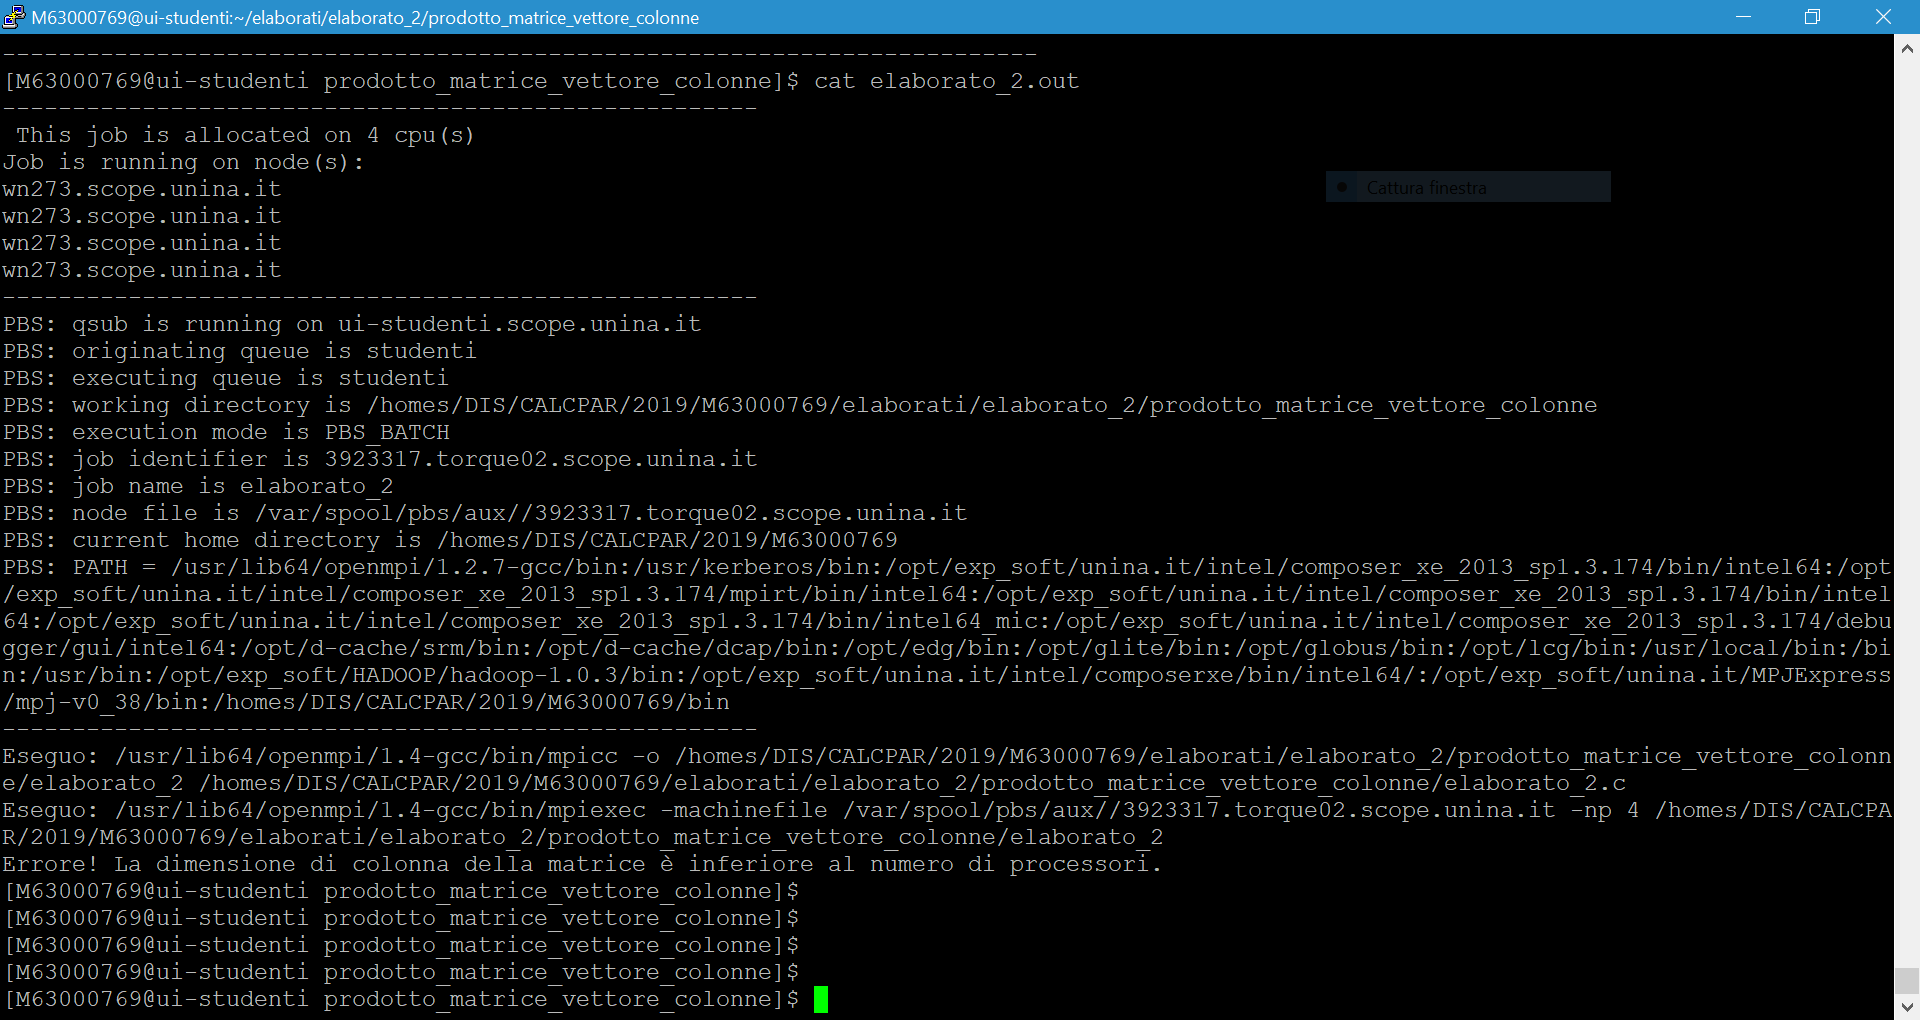
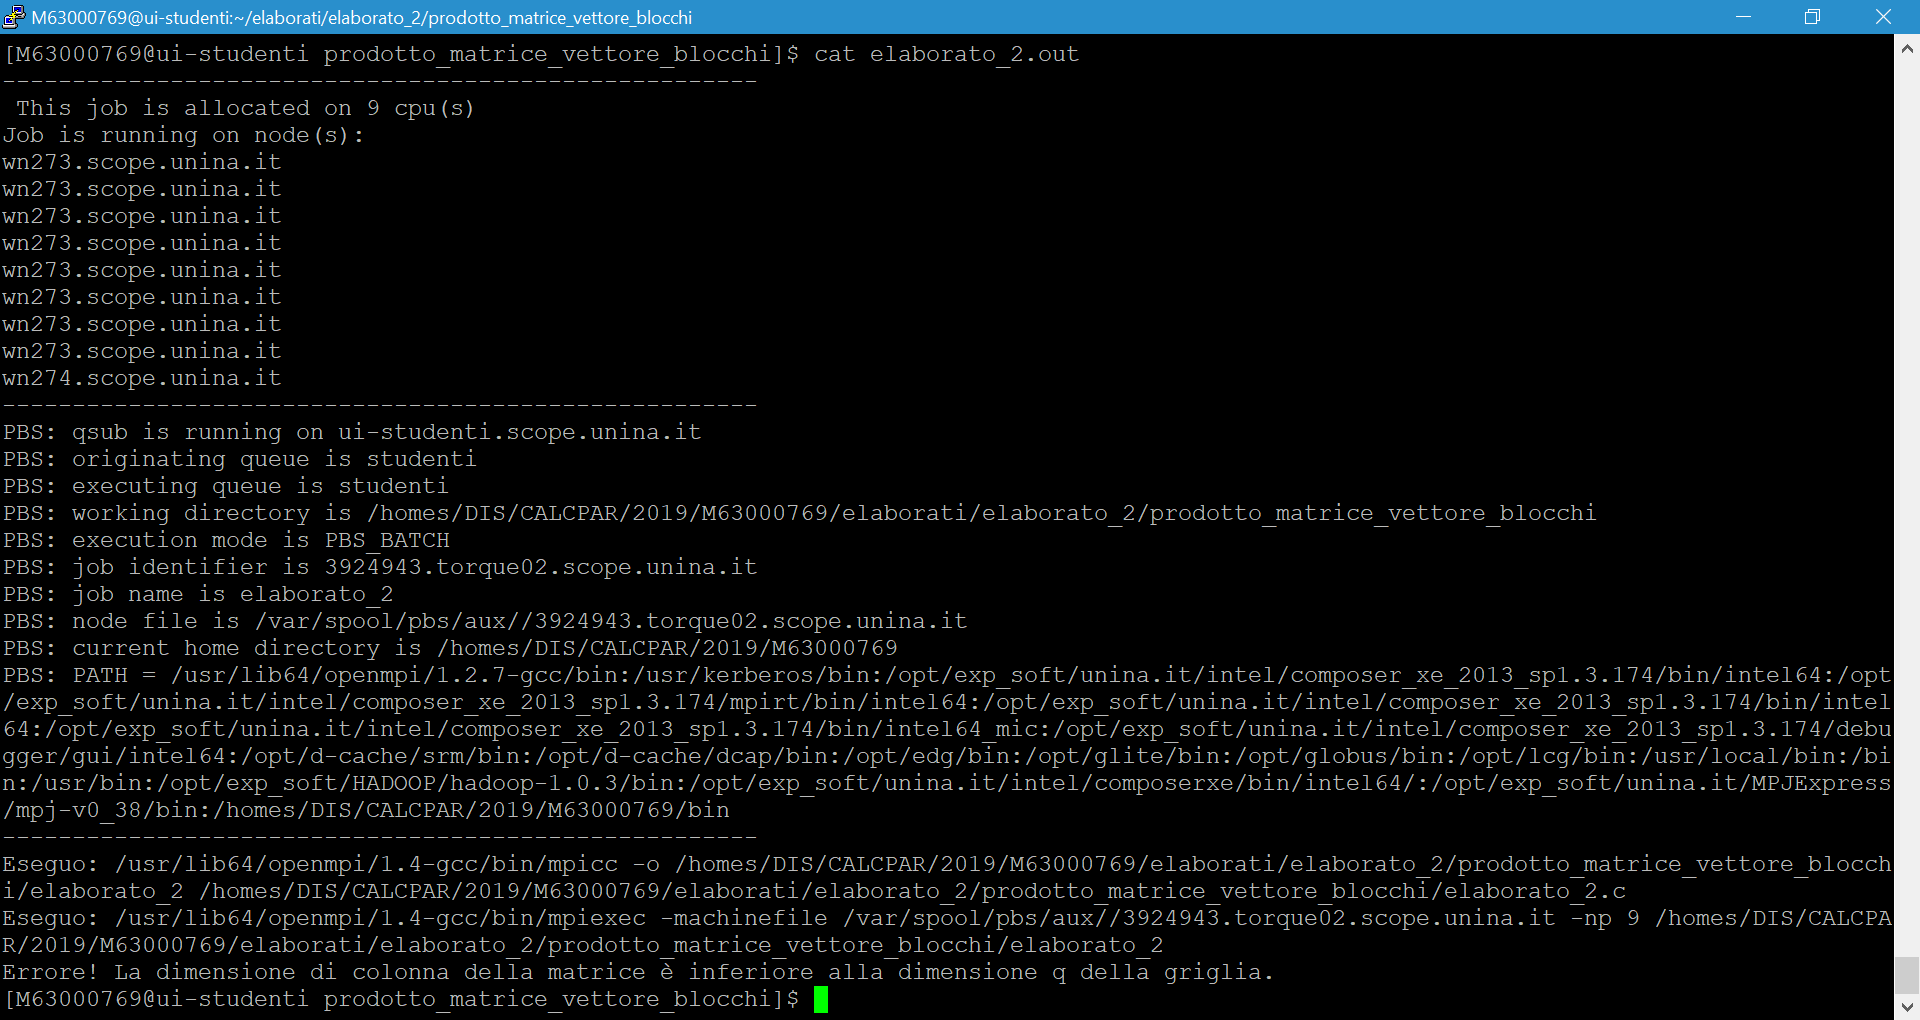
Elaborato 2 blocchi
tempi presi, screen fatti

diff --git a/elaborati MPI/elaborato_2/prodotto_matrice_vettore_blocchi/elaborato_2.c b/elaborati MPI/elaborato_2/prodotto_matrice_vettore_blocchi/elaborato_2.c
@@ -3,7 +3,7 @@
 #include <stdlib.h>
 #include <math.h>
 
-#define q 3				//griglia 3x3
+#define q 3				//griglia qxq processi
 #define m 7
 #define n 8
 #define dim_vett 8
@@ -48,28 +48,32 @@ int main(int argc, char *argv[])
 			MPI_Abort(MPI_COMM_WORLD, 1);
 		}
 		
-		//q negativo
 		
-		//q non intero
-		
-		//Controllo numprocs coerente con definizione griglia
-		if (numprocs != q * q) {
-			printf("Errore! Il numero dei processi deve essere %d\n", q*q);
+		if (m <= 0 || n <= 0 || dim_vett <= 0 || q <= 0) {
+			printf("Errore! I parametri di ingresso non sono valori positivi.\n");
 			MPI_Abort(MPI_COMM_WORLD, 1);
 		}
-
+		
+		//q non intero
+		if (floor((double)q) != (double)q) {
+			printf("Errore! Il parametro q deve essere un valore intero\n");
+			MPI_Abort(MPI_COMM_WORLD, 1);
+		}
+		
+		
 		if ((floor((double)m) != (double)m) || (floor((double)n) != (double)n) || (floor((double)dim_vett) != (double)dim_vett)) {
 			printf("Errore! Le dimensioni della matrice e del vettore devono essere valori interi\n");
 			MPI_Abort(MPI_COMM_WORLD, 1);
 		}
-
-		if (m <= 0 || n <= 0 || dim_vett <= 0) {
-			printf("Errore! Le dimensioni dei dati di input non sono valori positivi.\n");
+		
+		//Controllo numprocs coerente con definizione griglia
+		if (numprocs != q * q) {
+			printf("Errore! Il numero dei processi deve essere il quadrato perfetto di q\n");
 			MPI_Abort(MPI_COMM_WORLD, 1);
 		}
 
-		if (n < numprocs) {
-			printf("Errore! La dimensione di colonna della matrice è inferiore al numero di processori.\n");
+		if (n < q) {
+			printf("Errore! La dimensione di colonna della matrice è inferiore alla dimensione q della griglia.\n");
 			MPI_Abort(MPI_COMM_WORLD, 1);
 		}
 
@@ -77,16 +81,16 @@ int main(int argc, char *argv[])
 			printf("Errore! Le dimensioni non sono coerenti\n");
 			MPI_Abort(MPI_COMM_WORLD, 1);
 		}
-
+	
 	}
 	MPI_Barrier(MPI_COMM_WORLD);
 
 	
 	//Definizione griglia di processi
 	MPI_Comm griglia;
-	MPI_Cart_create(MPI_COMM_WORLD, dimensioni, dims, periods, 0, &griglia);
+	MPI_Cart_create(MPI_COMM_WORLD, 2, dims, periods, 0, &griglia);
 	MPI_Comm_rank(griglia, &myrank);
-	MPI_Cart_coords(griglia, myrank, dimensioni, coords);
+	MPI_Cart_coords(griglia, myrank, 2, coords);
 	MPI_Get_processor_name(processor_name, &namelen);
 	MPI_Status info;
 
@@ -150,7 +154,7 @@ int main(int argc, char *argv[])
 		//Inizializzazione dimRecv_righe per scatterv
 		for (i = 0; i < q; i++) {
 
-			if (i < ((int)m%q)) {
+			if (i < ((int)m%(int)q)) {
 				//Devo ricevere i+1 elementi
 				dimRecv_righe[i] = (int)(m / q + 1)*n;
 			}
@@ -162,7 +166,7 @@ int main(int argc, char *argv[])
 
 		for (i = 0; i < q; i++) {
 
-			if (i < ((int)n%q)) {
+			if (i < ((int)n%(int)q)) {
 				//Devo ricevere i+1 elementi
 				dimRecv_colonne[i] = (int)(n / q + 1);
 			}
